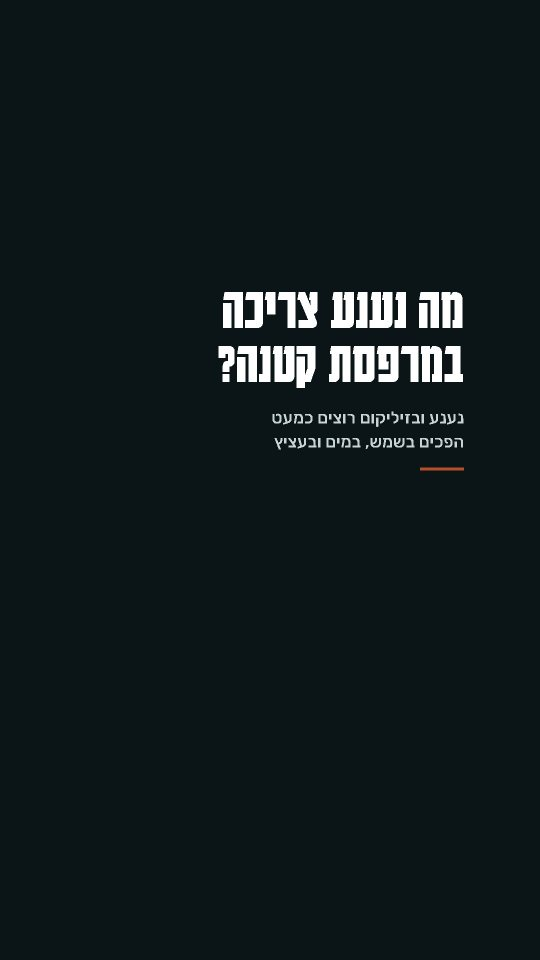
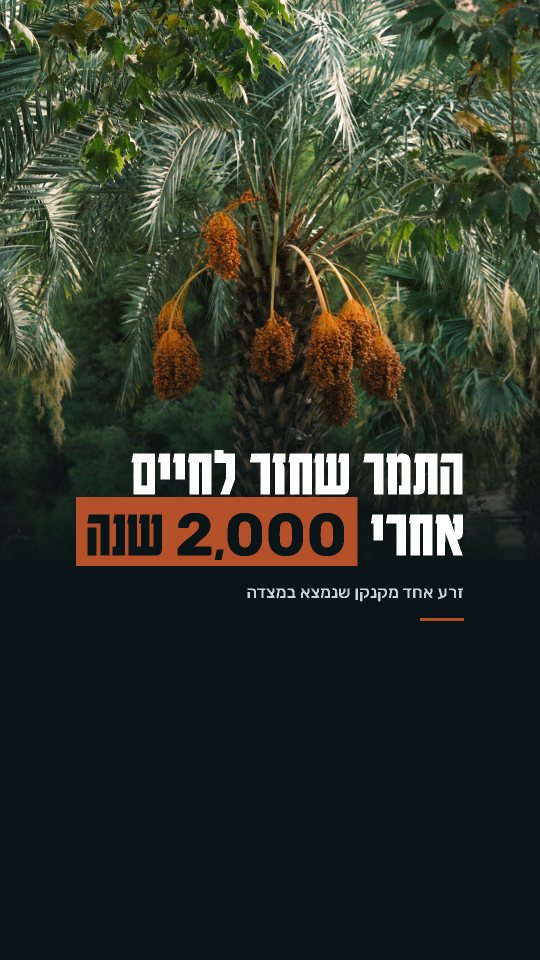
Teder's four sample covers on their photographs, one in each slide style
Claude-Session: https://claude.ai/code/session_01B4Ke7SmwhMpoepfUXzMmPd

diff --git a/assets/teder/README.md b/assets/teder/README.md
@@ -11,8 +11,7 @@ private/showcase/<pack>/<post>/ (2026-10-23). Each is drawn in one of Teder's fo
 Each pack has `ig-01.jpg` (Instagram, 640x800) and `tt-01.jpg` (TikTok, 540x960). `showcase.json` holds each
 subject, account, topic, the cover's text (the alt text) and who took the cover photo, when there is one.
 
-The slides are our own output, written by Teder's pipeline for their style (dry, nothing published). A cover photo, when
-a slideshow has one, is from Pexels or Unsplash under their licences, or from Wikimedia Commons under a free licence
-(public domain, CC0, CC BY, CC BY-SA), which the script checks before it writes anything; the page credits the
-photographer, and names a Commons licence beside it. These four have no cover photo: the writer asked for none, or the
-check refused the one found, so each stands on its style's own ground.
+The covers are drawn by Teder's renderer in each style; their lines were written for the site. Each cover photo is
+from Pexels under the Pexels License (a cover may also use Unsplash, or a free Wikimedia Commons licence: public
+domain, CC0, CC BY, CC BY-SA), which the script checks before it writes anything; the page credits the photographer,
+and names a Commons licence beside it.
